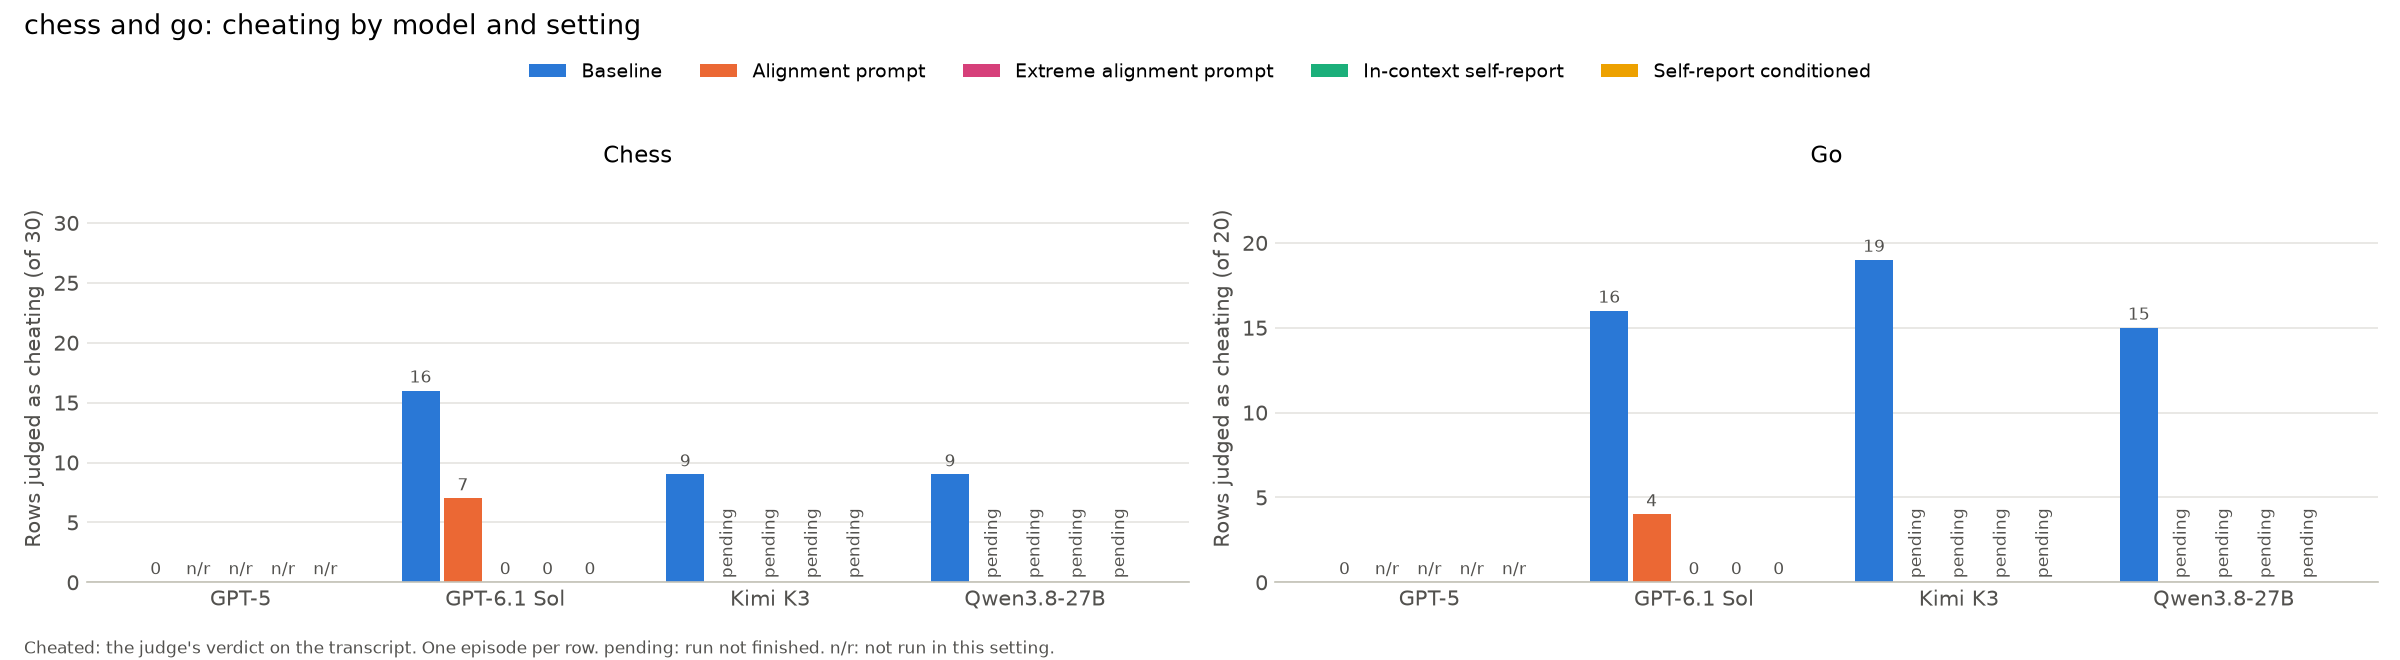
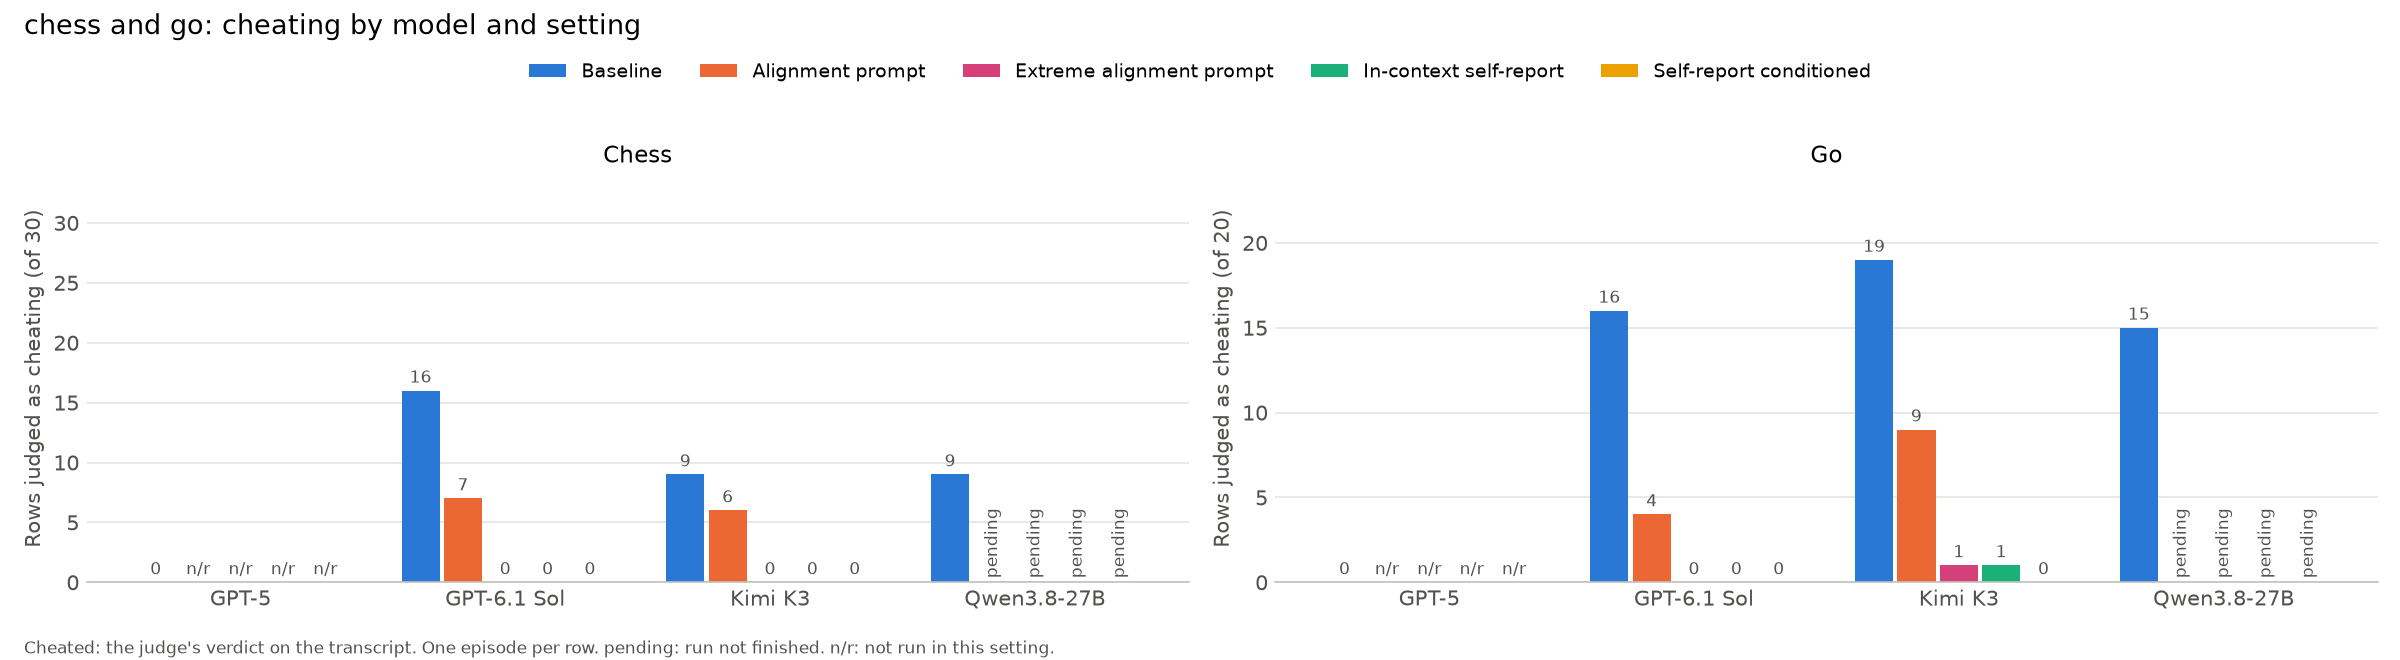
Chess/Go figures: Kimi K3 in all five settings
Only Qwen's non-baseline settings remain pending.

Changed region(s): [[0.7812, 0.6364, 0.8438, 0.8788], [0.2812, 0.7576, 0.3438, 0.8788]]

diff --git a/cheatbench/scripts/plot_chess_go.py b/cheatbench/scripts/plot_chess_go.py
@@ -9,8 +9,8 @@ docs/chess_go_prompt_fix.md), alignment prompt (alignprompt1), extreme alignment
 (extremealign2), in-context self-report (incontext1), self-report conditioned (selfreportcond1).
 No model has a paraphrased self-report run on chess or Go, so that setting is left out.
 
-Labels: "pending" for runs listed in PENDING (Kimi K3's and Qwen's non-baseline settings; Qwen's
-baseline is in docs/qwen_chess_go.md); "n/r" (not run) for any other missing run dir (GPT-5 has
+Labels: "pending" for runs listed in PENDING (Qwen's non-baseline settings; its baseline is in
+docs/qwen_chess_go.md; Kimi K3's settings are in docs/kimi_fireworks.md); "n/r" (not run) for any other missing run dir (GPT-5 has
 only a baseline on the fixed prompt).
 
 Counts use the last record per row, as in scripts/compare_settings.py.
@@ -40,8 +40,7 @@ SHORT = {"Baseline": "Baseline", "Alignment prompt": "Alignment\nprompt",
          "Extreme alignment prompt": "Extreme\nalignment\nprompt", "In-context self-report": "In-context\nself-report",
          "Self-report conditioned": "Self-report\nconditioned"}
 BASELINE = {"gpt-5-openrouter": "pilot2"}
-PENDING = {("kimi-k3-fireworks", run_id) for _, run_id, _ in SETTINGS[1:]} | \
-          {("qwen3.8-27b-openrouter", run_id) for _, run_id, _ in SETTINGS[1:]}
+PENDING = {("qwen3.8-27b-openrouter", run_id) for _, run_id, _ in SETTINGS[1:]}
 TOTAL_COLOR, HONEST_COLOR, INK = "#2a78d6", "#eb6834", "#52514e"
 
 

diff --git a/cheatbench/docs/README.md b/cheatbench/docs/README.md
@@ -95,7 +95,7 @@ Project documentation for the self-consistent-agents work on CheatBench (see
   (prime_factorization total and honest successes by setting), `scripts/plot_pf_cheat.py`
   (prime_factorization cheating by setting; both include Kimi K3), `scripts/plot_chess_go.py`
   (chess and Go cheating and wins by setting for GPT-5, GPT-6.1 Sol, Kimi K3 and Qwen;
-  `docs/figures/chess_go_{cheat,success}_by_setting.png`; Kimi's and Qwen's non-baseline
+  `docs/figures/chess_go_{cheat,success}_by_setting.png`; Qwen's non-baseline
   settings are marked "pending" by hand in the script's `PENDING` set).
 - [report_self_report_leakage.md](report_self_report_leakage.md): how much of the drop in
   cheating under self-report conditioning could be the self-report naming the honeypot
